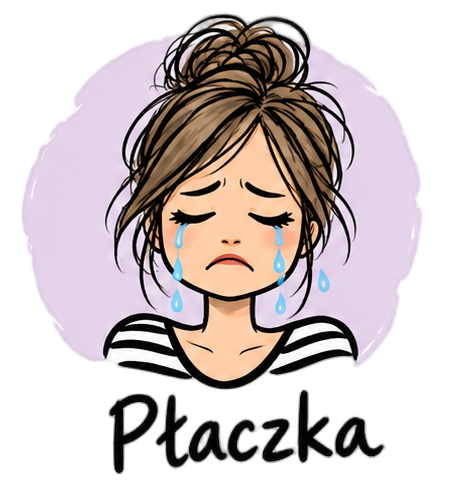
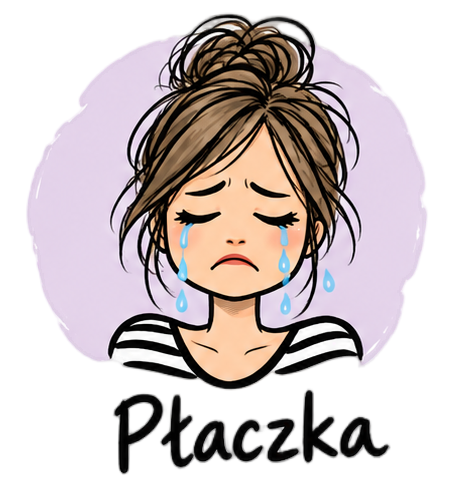
Polish hormone and horoscope overlays

diff --git a/frontend/src/components/teasers/hormone/HormoneOverlay.css b/frontend/src/components/teasers/hormone/HormoneOverlay.css
@@ -8,11 +8,24 @@
 .hormone-mood-grid {
   display: grid;
   gap: 12px;
-  grid-template-columns: repeat(2, minmax(0, 1fr));
+  grid-template-columns: repeat(6, minmax(0, 1fr));
 }
 
+.hormone-mood-choice:nth-child(4) {
+  grid-column: 2 / span 2;
+}
+
+.hormone-mood-choice:nth-child(5) {
+  grid-column: 4 / span 2;
+}
+
+/*
 .hormone-mood-choice {
-  background: rgba(245, 255, 252, 0.384);
+  background: linear-gradient(
+    to bottom,
+    rgba(222, 255, 233, 0.055) 0%,
+    rgba(228, 252, 246, 0.616) 100%
+  );
   border: 1px solid rgba(165, 255, 251, 0.2);
   border-radius: 12px;
   color: #f5fffc;
@@ -25,37 +38,77 @@
   padding: 14px;
   text-align: left;
   transition: background 0.18s ease, border-color 0.18s ease, transform 0.18s ease;
+} */
+
+.hormone-mood-choice {
+  background: rgba(245, 255, 252, 0.432);
+
+  background: linear-gradient(
+    to bottom,
+    rgba(223, 252, 248, 0.151) 10%,
+    rgba(255, 255, 255, 0.829) 50%,
+    rgba(200, 252, 239, 0.5) 100%
+  );
+  background-position: center top;
+  background-size: 100% 200%;
+  border: 1px solid rgba(165, 255, 251, 0.2);
+  border-radius: 12px;
+  color: #f5fffc;
+  cursor: pointer;
+  display: flex;
+  flex-direction: column;
+  font: inherit;
+  gap: 7px;
+  min-height: 88px;
+  padding: 14px;
+  text-align: left;
+  transition:
+    background-position 0.35s ease,
+    border-color 0.25s ease,
+    box-shadow 0.25s ease,
+    transform 0.25s ease;
+  grid-column: span 2;
 }
 
 .hormone-mood-choice-image {
   align-self: center;
   border-radius: 8px;
-  filter: drop-shadow(0px 0px 5px  rgb(250, 255, 250));
+  filter: drop-shadow(0 0 5px rgb(250 255 250))
+    drop-shadow(0 0 10px rgb(250 255 250));
   max-height: 180px;
   max-width: 100%;
   object-fit: contain;
 }
 
+
 .hormone-mood-choice span {
-  color: rgba(245, 255, 252, 0.76);
-  font-size: 17px;
+  color: rgba(12, 12, 12, 0.849);
+  font-size: 16px;
   line-height: 1.5;
-  filter: drop-shadow(1px 1px 0px  rgb(27, 27, 27));
+  font-weight: 500;
+   /* filter: drop-shadow(1px 1px 0px  rgb(150, 148, 148));  */
 }
 
 .hormone-mood-choice:hover {
-  background: rgba(165, 255, 251, 0.12);
+  background-position: center bottom;
+  border-color: rgba(165, 255, 251, 0.55);
   transform: translateY(-2px);
 }
 
 .hormone-mood-choice.is-selected {
-  background: rgba(165, 255, 251, 0.18);
+  background-position: center bottom;
   border-color: #a5fffb;
+  box-shadow: 0 5px 16px rgba(165, 255, 251, 0.16);
+  transform: translateY(-2px) scale(1.01);
+}
+
+.hormone-mood-choice:active {
+  transform: translateY(0) scale(0.995);
 }
 
 .hormone-mood-detail {
   align-items: center;
-  background: rgba(165, 255, 251, 0.08);
+  background: rgba(165, 255, 250, 0.171);
   border: 1px solid rgba(165, 255, 251, 0.28);
   border-radius: 16px;
   color: rgb(245, 255, 252);
@@ -107,7 +160,8 @@
   border-radius: 12px;
   flex: 0 0 150px;
   object-fit: cover;
-  width: 150px;
+  width: 200px;
+  filter: drop-shadow(0px 0px 30px  rgb(250, 255, 250));
 }
 
 @media (max-width: 760px) {

diff --git a/frontend/src/components/teasers/horoscope/HoroscopeOverlay.css b/frontend/src/components/teasers/horoscope/HoroscopeOverlay.css
@@ -30,14 +30,37 @@
   flex-direction: column;
   font-size: 13px;
   gap: 5px;
+  isolation: isolate;
   justify-content: center;
   min-height: 72px;
+  overflow: hidden;
   padding: 8px 4px;
+  position: relative;
   transition: background 0.18s ease, border-color 0.18s ease, transform 0.18s ease;
 }
+.horoscope-sign::before {
+  background: linear-gradient(
+    to bottom,
+    rgba(248, 217, 138, 0.04) 30%,
+    rgba(248, 217, 138, 0.28) 100%
+  );
+  border-radius: inherit;
+  content: '';
+  inset: 0;
+  opacity: 0;
+  pointer-events: none;
+  position: absolute;
+  transform: translateY(100%);
+  transition: opacity 0.25s ease, transform 0.3s ease;
+  z-index: -1;
+}
 .horoscope-sign:hover {
-  background: rgba(255, 249, 237, 0.12);
+  border-color: rgba(248, 217, 138, 0.55);
   transform: translateY(-2px);
+}
+.horoscope-sign:hover::before {
+  opacity: 1;
+  transform: translateY(0);
 }
 .horoscope-sign.is-selected {
   background: rgba(248, 217, 138, 0.16);
@@ -50,13 +73,29 @@
 }
 .horoscope-reading {
   align-items: flex-start;
-  background: rgba(248, 217, 138, 0.1);
+  background: linear-gradient(
+    125deg,
+    rgba(248, 217, 138, 0.06) 0%,
+    rgba(248, 217, 138, 0.2) 48%,
+    rgba(248, 217, 138, 0.08) 100%
+  );
+  background-position: 0% 50%;
+  background-size: 200% 200%;
   border: 1px solid rgba(248, 217, 138, 0.32);
   border-radius: 15px;
   display: flex;
   gap: 14px;
   margin-top: 20px;
   padding: 18px;
+  transition:
+    background-position 0.65s ease,
+    border-color 0.3s ease,
+    box-shadow 0.3s ease;
+}
+.horoscope-reading:hover {
+  background-position: 100% 50%;
+  border-color: rgba(248, 217, 138, 0.6);
+  box-shadow: 0 8px 24px rgba(248, 217, 138, 0.12);
 }
 .horoscope-reading-symbol {
   color: #f8d98a;
@@ -99,7 +138,13 @@
   }
 }
 @media (prefers-reduced-motion: reduce) {
-  .horoscope-sign {
+  .horoscope-sign,
+  .horoscope-sign::before,
+  .horoscope-reading {
     transition: none;
+  }
+
+  .horoscope-sign::before {
+    transform: none;
   }
 }

diff --git a/frontend/src/components/teasers/hormone/HormoneTeaser.test.tsx b/frontend/src/components/teasers/hormone/HormoneTeaser.test.tsx
@@ -19,7 +19,6 @@ describe('HormoneTeaser', () => {
 
     for (const mood of hormoneMoods) {
       const choice = screen.getByRole('button', { name: new RegExp(mood.name) })
-      expect(choice).toHaveAttribute('aria-pressed', 'false')
       expect(choice).toHaveTextContent(mood.shortDescription)
       expect(screen.getByRole('img', { name: mood.name })).toBeInTheDocument()
     }
@@ -30,18 +29,17 @@ describe('HormoneTeaser', () => {
     fireEvent.click(screen.getByRole('button', { name: new RegExp(mood.name) }))
 
     expect(screen.getByRole('heading', { name: mood.name })).toBeInTheDocument()
-    expect(screen.getByRole('button', { name: new RegExp(mood.name) })).toHaveAttribute('aria-pressed', 'true')
+    expect(screen.queryByRole('group', { name: 'Wybierz swój nastrój' })).not.toBeInTheDocument()
+    expect(screen.queryByText('Kim jesteś dzisiaj?')).not.toBeInTheDocument()
     expect(screen.getByText(mood.sections[0].paragraphs[1])).toBeInTheDocument()
   })
 
-  it('lets the reader change mood and close the overlay with Escape', () => {
+  it('shows only the selected mood and closes the overlay with Escape', () => {
     openHormoneOverlay()
     fireEvent.click(screen.getByRole('button', { name: /ZŁOŚNICA/ }))
-    fireEvent.click(screen.getByRole('button', { name: /KOCIAK/ }))
 
-    expect(screen.getByRole('button', { name: /ZŁOŚNICA/ })).toHaveAttribute('aria-pressed', 'false')
-    expect(screen.getByRole('button', { name: /KOCIAK/ })).toHaveAttribute('aria-pressed', 'true')
-    expect(screen.getByRole('heading', { name: 'A co na to hormony?' })).toBeInTheDocument()
+    expect(screen.getByRole('heading', { name: 'ZŁOŚNICA' })).toBeInTheDocument()
+    expect(screen.queryByRole('button', { name: /KOCIAK/ })).not.toBeInTheDocument()
 
     fireEvent.keyDown(document, { key: 'Escape' })
     expect(screen.queryByRole('dialog')).not.toBeInTheDocument()

diff --git a/frontend/src/components/teasers/hormone/HormoneOverlay.tsx b/frontend/src/components/teasers/hormone/HormoneOverlay.tsx
@@ -17,22 +17,7 @@ function HormoneOverlay({ onClose }: HormoneOverlayProps) {
       theme="hormone"
       onClose={onClose}
     >
-      <p className="hormone-overlay-prompt">Kim jesteś dzisiaj?</p>
-      <div className="hormone-mood-grid" role="group" aria-label="Wybierz swój nastrój">
-        {hormoneMoods.map((mood) => (
-          <button
-            key={mood.id}
-            className={`hormone-mood-choice${selectedMood?.id === mood.id ? ' is-selected' : ''}`}
-            type="button"
-            aria-pressed={selectedMood?.id === mood.id}
-            onClick={() => setSelectedMood(mood)}
-          >
-            <img className="hormone-mood-choice-image" src={mood.image} alt={mood.name} />
-            <span>{mood.shortDescription}</span>
-          </button>
-        ))}
-      </div>
-      {selectedMood && (
+      {selectedMood ? (
         <section className="hormone-mood-detail" aria-live="polite" aria-labelledby="hormone-mood-title">
           {selectedMood.image && (
             <img
@@ -53,6 +38,23 @@ function HormoneOverlay({ onClose }: HormoneOverlayProps) {
             ))}
           </div>
         </section>
+      ) : (
+        <>
+          <p className="hormone-overlay-prompt">Kim jesteś dzisiaj?</p>
+          <div className="hormone-mood-grid" role="group" aria-label="Wybierz swój nastrój">
+            {hormoneMoods.map((mood) => (
+              <button
+                key={mood.id}
+                className="hormone-mood-choice"
+                type="button"
+                onClick={() => setSelectedMood(mood)}
+              >
+                <img className="hormone-mood-choice-image" src={mood.image} alt={mood.name} />
+                <span>{mood.shortDescription}</span>
+              </button>
+            ))}
+          </div>
+        </>
       )}
     </TeaserOverlay>
   )

diff --git a/frontend/src/components/teasers/shared/TeaserOverlay.css b/frontend/src/components/teasers/shared/TeaserOverlay.css
@@ -4,7 +4,7 @@
   display: flex;
   inset: 0;
   justify-content: center;
-  padding: 24px;
+  padding:24px;
   position: fixed;
   z-index: 100;
 }
@@ -36,7 +36,37 @@
     radial-gradient(ellipse at top right, rgba(91, 199, 186, 0.2), transparent 44%),
     #123638;
   border-color: rgba(165, 255, 251, 0.36);
+  max-width: 1080px;
   overflow-y: auto;
+  padding: 64px 56px;
+  scrollbar-color: rgba(165, 255, 251, 0.55) transparent;
+  scrollbar-width: thin;
+}
+
+.teaser-overlay--hormone::-webkit-scrollbar {
+  width: 10px;
+}
+
+.teaser-overlay--hormone::-webkit-scrollbar-button {
+  display: none;
+  height: 0;
+}
+
+.teaser-overlay--hormone::-webkit-scrollbar-track {
+  background: transparent;
+  margin-block: 10%;
+}
+
+.teaser-overlay--hormone::-webkit-scrollbar-thumb {
+  background: rgba(165, 255, 251, 0.45);
+  background-clip: padding-box;
+  border: 3px solid transparent;
+  border-radius: 999px;
+}
+
+.teaser-overlay--hormone::-webkit-scrollbar-thumb:hover {
+  background: rgba(165, 255, 251, 0.75);
+  background-clip: padding-box;
 }
 
 .teaser-overlay-content {
@@ -69,7 +99,7 @@
   color: #f8d98a;
   font-size: 11px;
   letter-spacing: 0.17em;
-  margin: 0 45px 8px 0;
+  margin: 0px 45px 8px 0;
   text-transform: uppercase;
 }
 .teaser-overlay-title {

diff --git a/frontend/src/components/teasers/shared/TeaserOverlay.tsx b/frontend/src/components/teasers/shared/TeaserOverlay.tsx
@@ -37,7 +37,15 @@ function TeaserOverlay({
 
       const paddingTop = parseFloat(styles.paddingTop);
       const paddingBottom = parseFloat(styles.paddingBottom);
-      setHeight(content.scrollHeight + paddingTop + paddingBottom);
+      const borderTop = parseFloat(styles.borderTopWidth);
+      const borderBottom = parseFloat(styles.borderBottomWidth);
+      setHeight(
+        content.scrollHeight +
+          paddingTop +
+          paddingBottom +
+          borderTop +
+          borderBottom,
+      );
     };
 
     updateHeight();
@@ -128,6 +136,7 @@ function TeaserOverlay({
 
           {children}
         </div>
+
       </section>
     </div>
   );

diff --git a/frontend/src/components/teasers/hormone/hormoneMoods.ts b/frontend/src/components/teasers/hormone/hormoneMoods.ts
@@ -55,7 +55,7 @@ export const hormoneMoods: HormoneMood[] = [
   {
     id: 'krolowa-swiata',
     name: 'KRÓLOWA ŚWIATA',
-    shortDescription: 'To dziś Ty. Masz energię, nowe pomysły wyskakują Ci z głowy jeden za drugim i jesteś przekonana, że dzisiaj naprawdę możesz to zrobić. Bo niby dlaczego nie?',
+    shortDescription: 'To dziś Ty. Masz energię, nowe pomysły wyskakują Ci z głowy jeden za drugim i jesteś przekonana, że dzisiaj naprawdę możesz to zrobić.',
     image: krolowaSwiataImage,
     sections: [
       {
